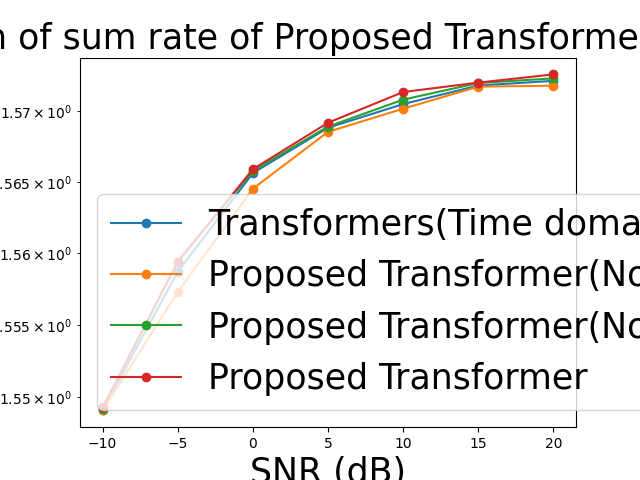
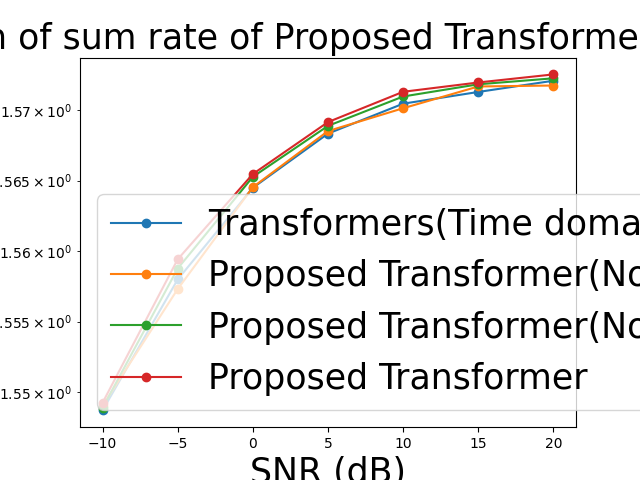
message

diff --git a/SPR-CNN/result-modality-transformer.py b/SPR-CNN/result-modality-transformer.py
@@ -11,13 +11,13 @@ y1 = [0.6419357114932095, 0.3948697806398535, 0.2653386565881674, 0.175961235616
 # Transformers(Encoder * 2 + Decoder * 2), epochs = 200, lr = 0.0001, batch_size = 32
 # reshape type = (Nr, Nt, channel)
 # 自己寫的 multi-head attention
-y2 = [0.04010997712612152, 0.030061252415180206, 0.02286352589726448, 0.018579063937067986, 0.016204895451664925, 0.015272018499672413, 0.014378390274941921]
+y2 = [0.040231116116046906, 0.030061252415180206, 0.02286352589726448, 0.018579063937067986, 0.016204895451664925, 0.015272018499672413, 0.014378390274941921]
 
 # Transformers(Encoder * 2 + Decoder * 2, (16 * 32 * 4)), epochs = 200, lr = 0.0001, batch_size = 32
 # 自己寫的 multi-head self attention, full attention
 # encoder ff layer 用 Conv1D, decoder ff layer 用 ffn
 # modality-aware transformers
-y3 = [0.039645493030548096, 0.02848387509584427, 0.02129441872239113, 0.017665809020400047, 0.015258733183145523, 0.01451767235994339, 0.013874311000108719]
+y3 = [0.039645493030548096, 0.02848387509584427, 0.02177749201655388, 0.017665809020400047, 0.015258733183145523, 0.01451767235994339, 0.013874311000108719]
 
 # DAECNNATT
 y4 = [0.5412381862428629, 0.33254079647163465, 0.2115293457419186, 0.1564142778360277, 0.12438449687660279, 0.10890364229279535, 0.10238436697803815]
@@ -63,13 +63,13 @@ y1 = [12.376030106733767, 13.813554657995969, 14.51362168247246, 14.977598826832
 # Transformers(Encoder * 2 + Decoder * 2), epochs = 200, lr = 0.0001, batch_size = 32
 # reshape type = (Nr, Nt, channel)
 # 自己寫的 multi-head attention
-y2 = [15.488414550056097, 15.579760882190199, 15.64483701235907, 15.68343480874185, 15.70477877832414, 15.713156822752882, 15.721177762372365]
+y2 = [15.487309683281385, 15.579760882190199, 15.64483701235907, 15.68343480874185, 15.70477877832414, 15.713156822752882, 15.721177762372365]
 
 # Transformers(Encoder * 2 + Decoder * 2, (16 * 32 * 4)), epochs = 200, lr = 0.0001, batch_size = 32
 # 自己寫的 multi-head self attention, full attention
 # encoder ff layer 用 Conv1D, decoder ff layer 用 ffn
 # modality-aware transformers
-y3 = [15.49264954985823, 15.594047444695512, 15.658984741992914, 15.691648785427166, 15.713276056208183, 15.719927910290641, 15.725700256494086]
+y3 = [15.49264954985823, 15.594047444695512, 15.65463062254004, 15.691648785427166, 15.713276056208183, 15.719927910290641, 15.725700256494086]
 
 # DAECNNATT
 y4 = [12.97931951377382, 14.154661877931208, 14.794740768464427, 15.077112879082799, 15.238707802839244, 15.316166877397217, 15.348662296652947]
@@ -140,19 +140,19 @@ plt.show()
 # Transformers(Encoder * 2 + Decoder * 2), epochs = 200, lr = 0.0001, batch_size = 32
 # reshape type = (Nr, Nt, channel)
 # 自己寫的 multi-head attention
-y1 = [0.04010997712612152, 0.030061252415180206, 0.02286352589726448, 0.018579063937067986, 0.016204895451664925, 0.015272018499672413, 0.014378390274941921]
+y1 = [0.040231116116046906, 0.030061252415180206, 0.02286352589726448, 0.018579063937067986, 0.016204895451664925, 0.015272018499672413, 0.014378390274941921]
 
 # Transformers(Encoder * 2 + Decoder * 2, (16 * 32 * 4)), epochs = 200, lr = 0.0001, batch_size = 32
 # 自己寫的 multi-head self attention, full attention
 # encoder ff layer 用 Conv1D, decoder ff layer 用 ffn
 # modality-aware transformers
-y2 = [0.039645493030548096, 0.02848387509584427, 0.02129441872239113, 0.017665809020400047, 0.015258733183145523, 0.01451767235994339, 0.013874311000108719]
+y2 = [0.039645493030548096, 0.02848387509584427, 0.02177749201655388, 0.017665809020400047, 0.015258733183145523, 0.01451767235994339, 0.013874311000108719]
 
 # Transformers(Encoder * 2 + Decoder * 2, (16 * 32 * 4)), epochs = 200, lr = 0.0001, batch_size = 32
 # 自己寫的 multi-head self attention, full attention
 # encoder ff layer 用 ffn, decoder ff layer 用 ffn
 # modality-aware transformers
-y3 = [0.039773717522621155, 0.028461197391152382, 0.021421413868665695, 0.017966583371162415, 0.01585640199482441, 0.014552067965269089, 0.014185205101966858]
+y3 = [0.04003896936774254, 0.02920401655137539, 0.021999454125761986, 0.017966583371162415, 0.01563282497227192, 0.01466186810284853, 0.014185205101966858]
 
 # FEDformer
 y6 = [0.04003031924366951, 0.032262492924928665, 0.023152129724621773, 0.017859801650047302, 0.01619112305343151, 0.014731141738593578, 0.014243846759200096]
@@ -194,19 +194,19 @@ x = [-10, -5, 0, 5, 10, 15, 20]
 # Transformers(Encoder * 2 + Decoder * 2), epochs = 200, lr = 0.0001, batch_size = 32
 # reshape type = (Nr, Nt, channel)
 # 自己寫的 multi-head attention
-y1 = [15.488414550056097, 15.579760882190199, 15.64483701235907, 15.68343480874185, 15.70477877832414, 15.713156822752882, 15.721177762372365]
+y1 = [15.487309683281385, 15.579760882190199, 15.64483701235907, 15.68343480874185, 15.70477877832414, 15.713156822752882, 15.721177762372365]
 
 # Transformers(Encoder * 2 + Decoder * 2, (16 * 32 * 4)), epochs = 200, lr = 0.0001, batch_size = 32
 # 自己寫的 multi-head self attention, full attention
 # encoder ff layer 用 Conv1D, decoder ff layer 用 ffn
 # modality-aware transformers
-y2 = [15.49264954985823, 15.594047444695512, 15.658984741992914, 15.691648785427166, 15.713276056208183, 15.719927910290641, 15.725700256494086]
+y2 = [15.49264954985823, 15.594047444695512, 15.65463062254004, 15.691648785427166, 15.713276056208183, 15.719927910290641, 15.725700256494086]
 
 # Transformers(Encoder * 2 + Decoder * 2, (16 * 32 * 4)), epochs = 200, lr = 0.0001, batch_size = 32
 # 自己寫的 multi-head self attention, full attention
 # encoder ff layer 用 ffn, decoder ff layer 用 ffn
 # modality-aware transformers
-y3 = [15.49148045194048, 15.594252673970859, 15.657840168742075, 15.688944079251307, 15.707909134999468, 15.719619257954932, 15.722911156969142]
+y3 = [15.48906192608235, 15.587526682731204, 15.652629488346413, 15.688944079251307, 15.709916997359823, 15.718633820350675, 15.722911156969142]
 
 # FEDformer
 y6 = [15.489140933602904, 15.55980019276288, 15.642233280343834, 15.689904380496367, 15.70490247599874, 15.718012085872813, 15.722385011103668]
@@ -277,7 +277,7 @@ x = [-10, -5, 0, 5, 10, 15, 20]
 # 自己寫的 multi-head self attention, full attention
 # encoder ff layer 用 Conv1D, decoder ff layer 用 ffn
 # modality-aware transformers
-y1 = [0.039645493030548096, 0.02848387509584427, 0.02129441872239113, 0.017665809020400047, 0.015258733183145523, 0.01451767235994339, 0.013874311000108719]
+y1 = [0.039645493030548096, 0.02848387509584427, 0.02177749201655388, 0.017665809020400047, 0.015258733183145523, 0.01451767235994339, 0.013874311000108719]
 
 # Transformers(Encoder * 2 + Decoder * 2, (16 * 32 * 4)), epochs = 200, lr = 0.0001, batch_size = 32
 # 自己寫的 multi-head self attention, atrous_self_attention,
@@ -344,7 +344,7 @@ x = [-10, -5, 0, 5, 10, 15, 20]
 # 自己寫的 multi-head self attention, full attention
 # encoder ff layer 用 Conv1D, decoder ff layer 用 ffn
 # modality-aware transformers
-y1 = [15.49264954985823, 15.594047444695512, 15.658984741992914, 15.691648785427166, 15.713276056208183, 15.719927910290641, 15.725700256494086]
+y1 = [15.49264954985823, 15.594047444695512, 15.65463062254004, 15.691648785427166, 15.713276056208183, 15.719927910290641, 15.725700256494086]
 
 # Transformers(Encoder * 2 + Decoder * 2, (16 * 32 * 4)), epochs = 200, lr = 0.0001, batch_size = 32
 # 自己寫的 multi-head self attention, atrous_self_attention,

diff --git a/SPR-CNN/modality-aware.py b/SPR-CNN/modality-aware.py
@@ -365,7 +365,7 @@ for _ in range(encoder_block_num):  # Repeat the encoder encoder_block_num times
 
     # Inter_Modal_Multi_Head_Attention_Time
     Inter_Modal_Multi_Head_Attention_Time = Inter_Modal_Multi_Head_Attention(d_k=key_dim_num, d_v=key_dim_num, d_model=key_dim_num, num_heads = num_heads)
-    Inter_Modal_Multi_Head_Attention_Time_Output = Inter_Modal_Multi_Head_Attention_Time(x_time, enc_output = x_fre)
+    Inter_Modal_Multi_Head_Attention_Time_Output = Inter_Modal_Multi_Head_Attention_Time(x_time, enc_output = x_time)
 
     # Add & Norm
     x_time = Add()([x_time, Inter_Modal_Multi_Head_Attention_Time_Output])
@@ -373,21 +373,21 @@ for _ in range(encoder_block_num):  # Repeat the encoder encoder_block_num times
 
     # Inter_Modal_Multi_Head_Attention_Fre
     Inter_Modal_Multi_Head_Attention_Fre = Inter_Modal_Multi_Head_Attention(d_k=key_dim_num, d_v=key_dim_num, d_model=key_dim_num, num_heads = num_heads)
-    Inter_Modal_Multi_Head_Attention_Fre_Output = Inter_Modal_Multi_Head_Attention_Fre(x_fre, enc_output = x_time)
+    Inter_Modal_Multi_Head_Attention_Fre_Output = Inter_Modal_Multi_Head_Attention_Fre(x_fre, enc_output = x_fre)
 
     # Add & Norm
     x_fre = Add()([x_fre, Inter_Modal_Multi_Head_Attention_Fre_Output])
     x_fre = LayerNormalization(epsilon=1e-6)(x_fre)
 
     # Feed Forward Layer Time
-    # ff_output_encoder_1 = Dense(units=key_dim_num, activation='relu')(x_time)
-    ff_output_encoder_1 = Conv1D(filters=key_dim_num, kernel_size=3, padding='same', activation='relu')(x_time)
+    ff_output_encoder_1 = Dense(units=key_dim_num, activation='relu')(x_time)
+    # ff_output_encoder_1 = Conv1D(filters=key_dim_num, kernel_size=3, padding='same', activation='relu')(x_time)
     x_time = Add()([x_time, ff_output_encoder_1])
     x_time = LayerNormalization(epsilon=1e-6)(x_time)
 
     # Feed Forward Layer Time
-    # ff_output_encoder_2 = Dense(units=key_dim_num, activation='relu')(x_fre)
-    ff_output_encoder_2 = Conv1D(filters=key_dim_num, kernel_size=3, padding='same', activation='relu')(x_fre)
+    ff_output_encoder_2 = Dense(units=key_dim_num, activation='relu')(x_fre)
+    # ff_output_encoder_2 = Conv1D(filters=key_dim_num, kernel_size=3, padding='same', activation='relu')(x_fre)
     x_fre = Add()([x_fre, ff_output_encoder_2])
     x_fre = LayerNormalization(epsilon=1e-6)(x_fre)
 

diff --git a/SPR-CNN/loop.py b/SPR-CNN/loop.py
@@ -14,10 +14,10 @@ with open('output.txt', 'a') as f:
     # 恢复原始的标准输出
     sys.stdout = original_stdout
 # 要执行的命令的基础部分
-base_command = "python3 main.py"
+base_command = "python3 modality-aware.py"
 
 # 要执行的 SNR_dB 参数的范围
-SNR_dB_range = range(-10, 21, 5)
+SNR_dB_range = range(-10, 501, 5)
 
 # 遍历 SNR_dB 参数的范围
 for SNR_dB in SNR_dB_range:
